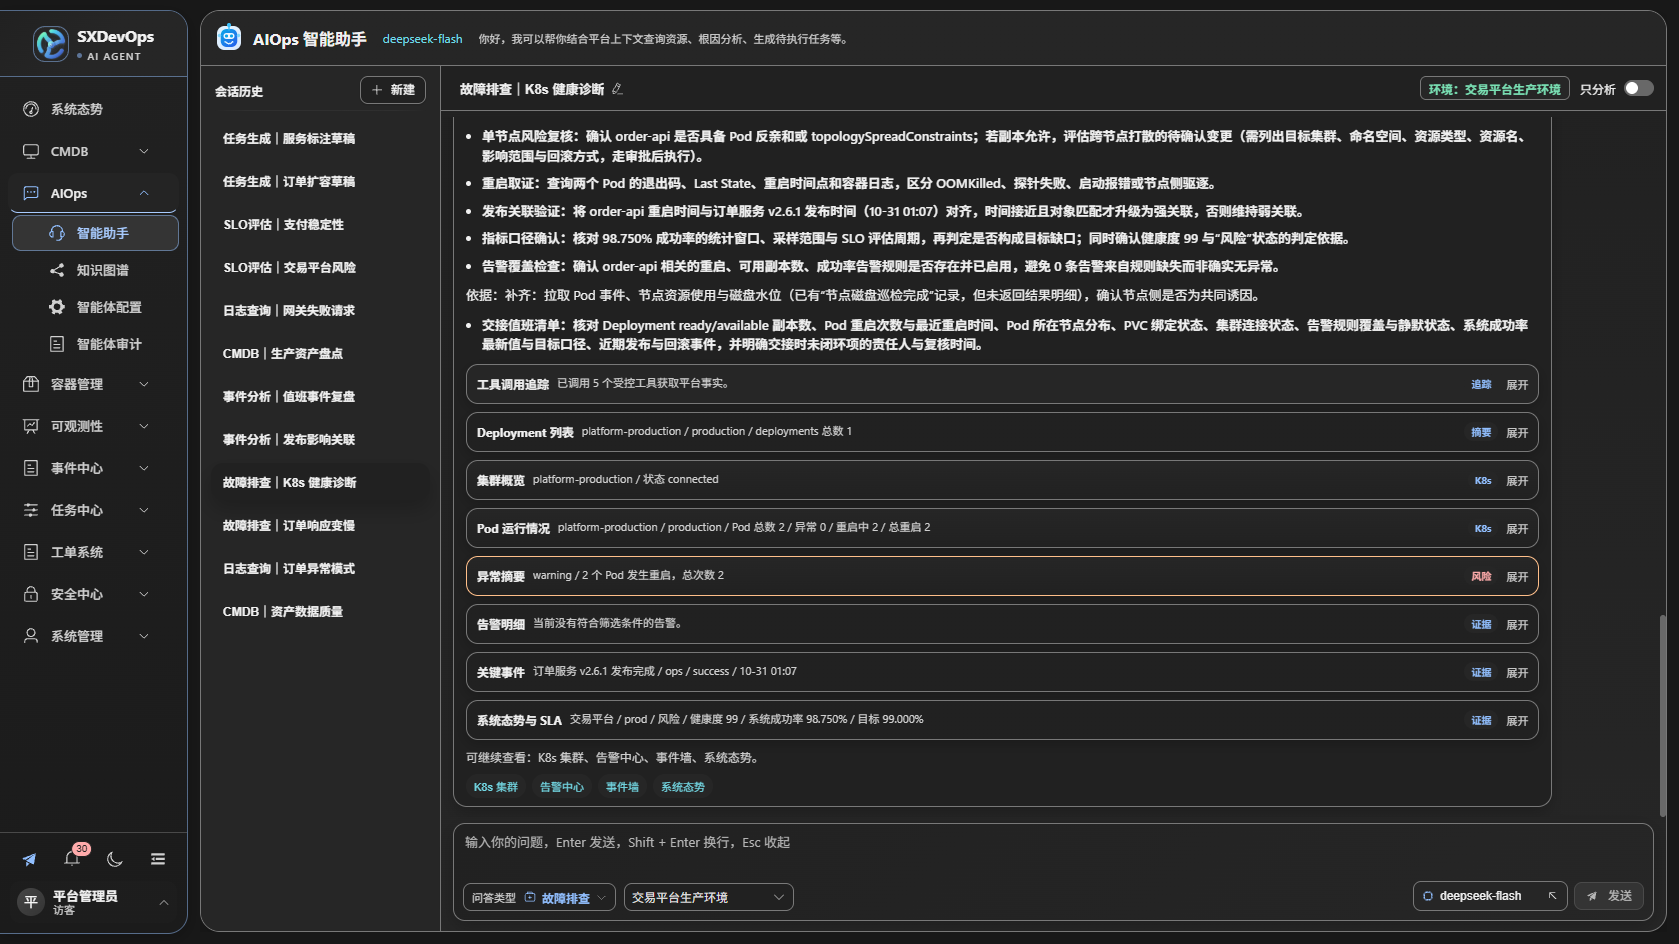
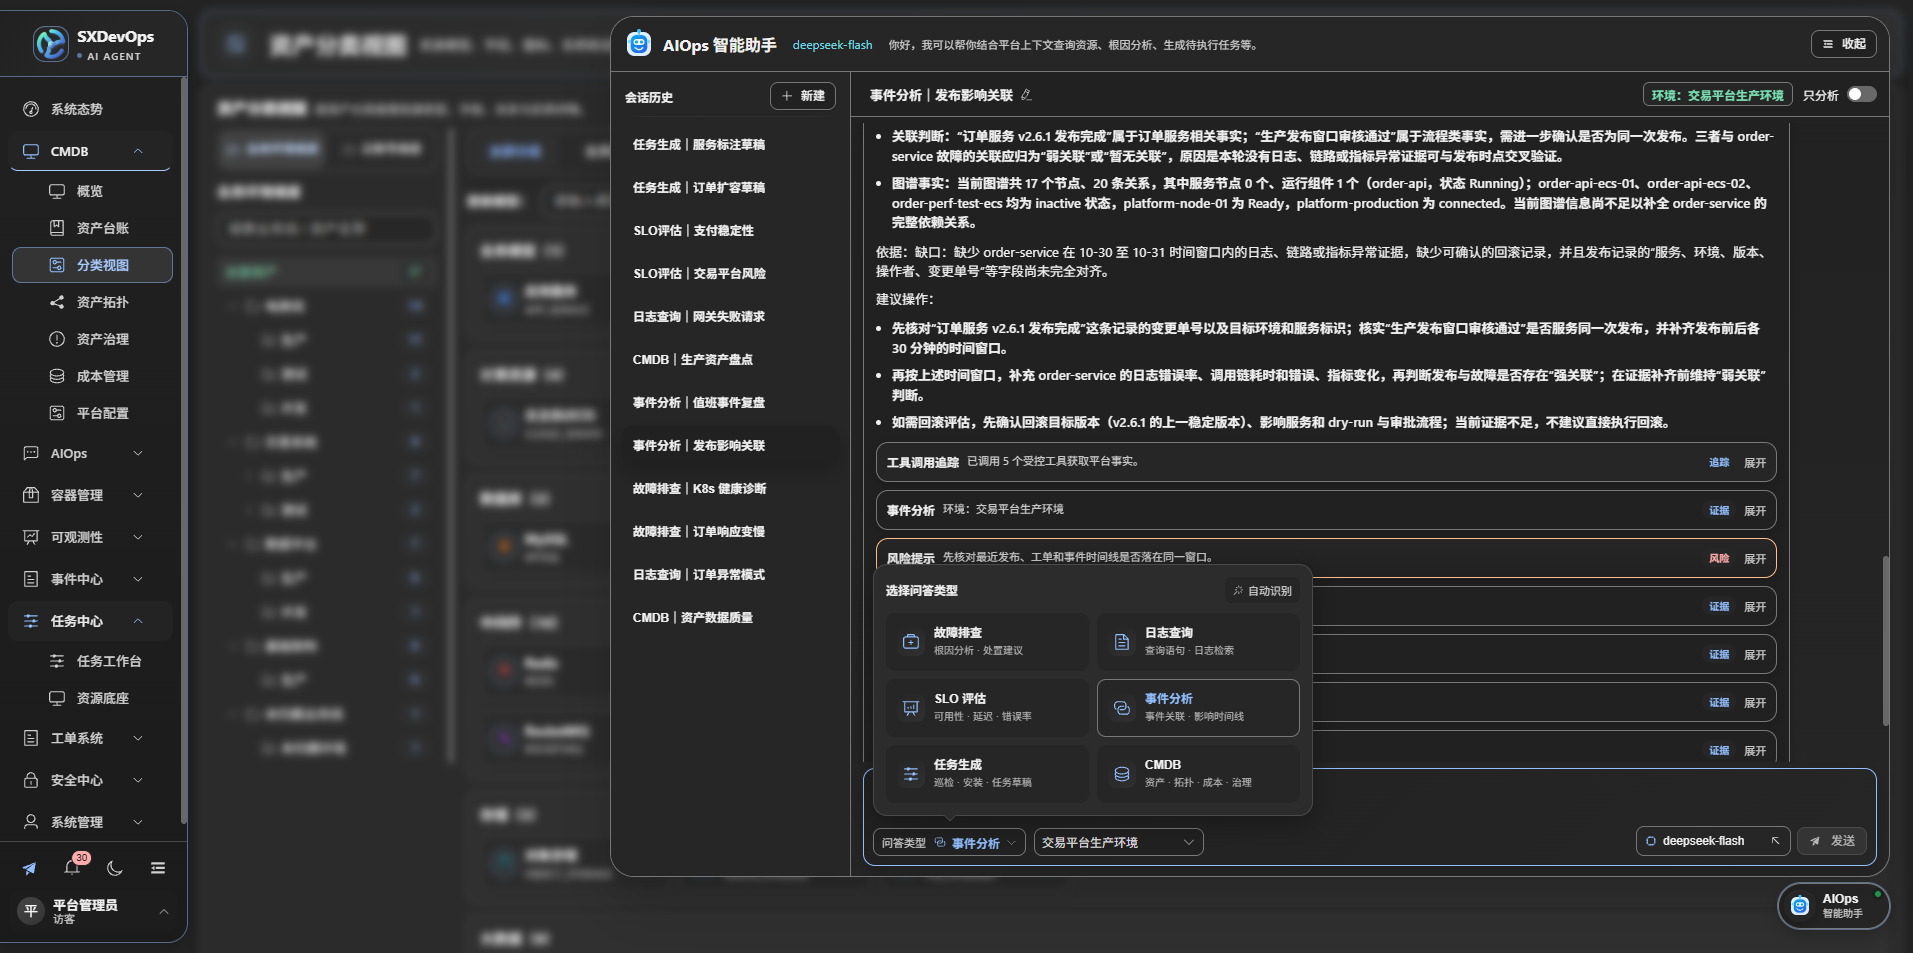
docs(product): refresh assistant screenshot

Changed region(s): [[0.0, 0.0, 1.0, 1.0], [0.0, 0.8602, 0.1239, 0.9831], [0.0, 0.768, 0.0619, 0.8294]]

diff --git a/frontend/src/views/ProductIntro.vue b/frontend/src/views/ProductIntro.vue
@@ -115,7 +115,7 @@
         <div class="gallery-selectors" role="group" aria-label="选择产品界面"><button v-for="(shot, index) in screenshots" :key="shot.id" type="button" :aria-pressed="screenshotIndex === index" @click="screenshotIndex = index"><el-icon><component :is="shot.icon" /></el-icon>{{ shot.label }}</button></div>
         <div class="gallery-frame">
           <div class="gallery-topline"><div class="window-dots" aria-hidden="true"><i></i><i></i><i></i></div><span>{{ currentScreenshot.path }}</span><span class="gallery-counter">{{ String(screenshotIndex + 1).padStart(2, '0') }} / {{ String(screenshots.length).padStart(2, '0') }}</span></div>
-          <button class="screenshot-button" type="button" :aria-label="`放大查看${currentScreenshot.label}截图`" @click="openLightbox(screenshotIndex)"><img :src="currentScreenshot.src" :alt="currentScreenshot.alt" width="1679" height="944" loading="lazy" decoding="async" /><span class="zoom-hint"><el-icon><FullScreen /></el-icon> 点击查看大图</span></button>
+          <button class="screenshot-button" type="button" :aria-label="`放大查看${currentScreenshot.label}截图`" @click="openLightbox(screenshotIndex)"><img :src="currentScreenshot.src" :alt="currentScreenshot.alt" :width="currentScreenshot.width || 1679" :height="currentScreenshot.height || 944" loading="lazy" decoding="async" /><span class="zoom-hint"><el-icon><FullScreen /></el-icon> 点击查看大图</span></button>
           <div class="gallery-caption" aria-live="polite"><div><h3>{{ currentScreenshot.title }}</h3><p>{{ currentScreenshot.description }}</p></div><span class="real-capture"><span class="status-dot"></span> 真实界面</span></div>
         </div>
         <p class="gallery-note">截图展示已实现功能，界面细节随版本持续迭代。</p>
@@ -227,7 +227,7 @@ const workflow = [
   { title: '留痕复盘', icon: Finished, description: '查看执行与审计，按配置验证告警恢复。' },
 ]
 const screenshots = [
-  { id: 'assistant', label: '智能助手', icon: MagicStick, path: 'workspace / aiops / chat', src: '/promo/v2/assistant.webp?v=95040776705a', title: '用一个问题，打开有上下文的运维分析', description: '围绕资源与证据展开对话，查看分析依据、建议与后续操作入口。', alt: '智能助手真实产品截图：历史会话、分析结论、证据明细和对话输入区' },
+  { id: 'assistant', label: '智能助手', icon: MagicStick, path: 'workspace / aiops / chat', src: '/promo/v2/assistant.webp?v=313097114c3c', width: 1913, height: 953, title: '用一个问题，打开有上下文的运维分析', description: '围绕资源与证据展开对话，查看分析依据、建议与后续操作入口。', alt: '智能助手真实产品截图：事件分析、平台取证、历史会话和问答类型选择' },
   { id: 'agent-config', label: '智能体配置', icon: MagicStick, path: 'workspace / aiops / config', src: '/promo/v2/agent-config.webp?v=eba19eb80061', title: '把助手的能力与边界，配置清楚', description: '配置建议问题、系统提示词与能力范围，明确默认模型和任务草稿生成方式。', alt: '智能体配置真实产品截图：建议问题、系统提示词、能力范围、默认模型与人工确认提示' },
   { id: 'posture', label: '系统态势', icon: Monitor, path: 'workspace / dashboard', src: '/promo/v2/posture.webp?v=d4c700bc1149', title: '先看全局态势，再收敛故障边界', description: '按环境与系统查看 SLA 历史和当前状态，区分故障、未知与数据缺口。', alt: '系统态势真实产品截图：系统统计、环境筛选、SLA 历史条带与当前状态' },
   { id: 'slo', label: '系统 SLO', icon: Finished, path: 'workspace / observability / system-posture', src: '/promo/v2/slo.webp?v=e97fefb8719e', title: '从可用率与错误预算，判断服务风险', description: '集中查看各系统的 SLO 达标情况、可用率与错误预算，展开服务详情定位风险。', alt: '系统 SLO 真实产品截图：系统目标卡片、可用率、错误预算与服务详情面板' },

diff --git a/docs/screenshots/README.md b/docs/screenshots/README.md
@@ -10,7 +10,7 @@
 | [v2-dashboard.png](v2-dashboard.png) | 系统态势、SLA 与历史可用率 |
 | [v2-cmdb-overview.png](v2-cmdb-overview.png) | CMDB 容量、资产及治理入口 |
 | [v2-cmdb-topology.png](v2-cmdb-topology.png) | 资产拓扑、业务环境树和分类关系规则 |
-| [assistant-demo-20261101.png](assistant-demo-20261101.png) | 智能助手故障排查、平台取证及会话历史 |
+| [assistant-demo-20261101.png](assistant-demo-20261101.png) | 智能助手事件分析、平台取证、会话历史及问答类型选择 |
 | [execution-trace-fix-20261101.png](execution-trace-fix-20261101.png) | LangGraph 执行追踪、节点时间线及 Checkpoint |
 | [v2-aiops-sessions.png](v2-aiops-sessions.png) | 智能体审计的模型与工具调用统计 |
 | [session-audit-20261101.png](session-audit-20261101.png) | 智能体配置、建议问题、系统提示词与能力范围 |
@@ -26,7 +26,7 @@
 
 ## 产品介绍截图映射
 
-产品页使用 `frontend/public/promo/v2/` 下的 WebP 展示副本，保留 PNG 原图。当前副本保留原始 1679 × 944 分辨率，使用 WebP 质量 88 压缩，不裁切界面内容。
+产品页使用 `frontend/public/promo/v2/` 下的 WebP 展示副本，保留 PNG 原图。副本保留各自原始分辨率，使用 WebP 质量 88 压缩，不裁切界面内容。智能助手截图于 2026-11-02 更新为用户提供的 1913 × 953 原图，其余界面截图为 1679 × 944。
 
 | 界面一览 | PNG 来源 | WebP 展示副本 |
 | --- | --- | --- |

diff --git a/README.md b/README.md
@@ -219,7 +219,7 @@ flowchart TB
 
 默认聊天支持分阶段取证和断点恢复，执行追踪可查看节点与动作结果。
 
-![智能助手故障排查与取证](docs/screenshots/assistant-demo-20261101.png)
+![智能助手事件分析、平台取证与问答类型选择](docs/screenshots/assistant-demo-20261101.png)
 
 ![LangGraph 执行追踪与节点时间线](docs/screenshots/execution-trace-fix-20261101.png)
 
